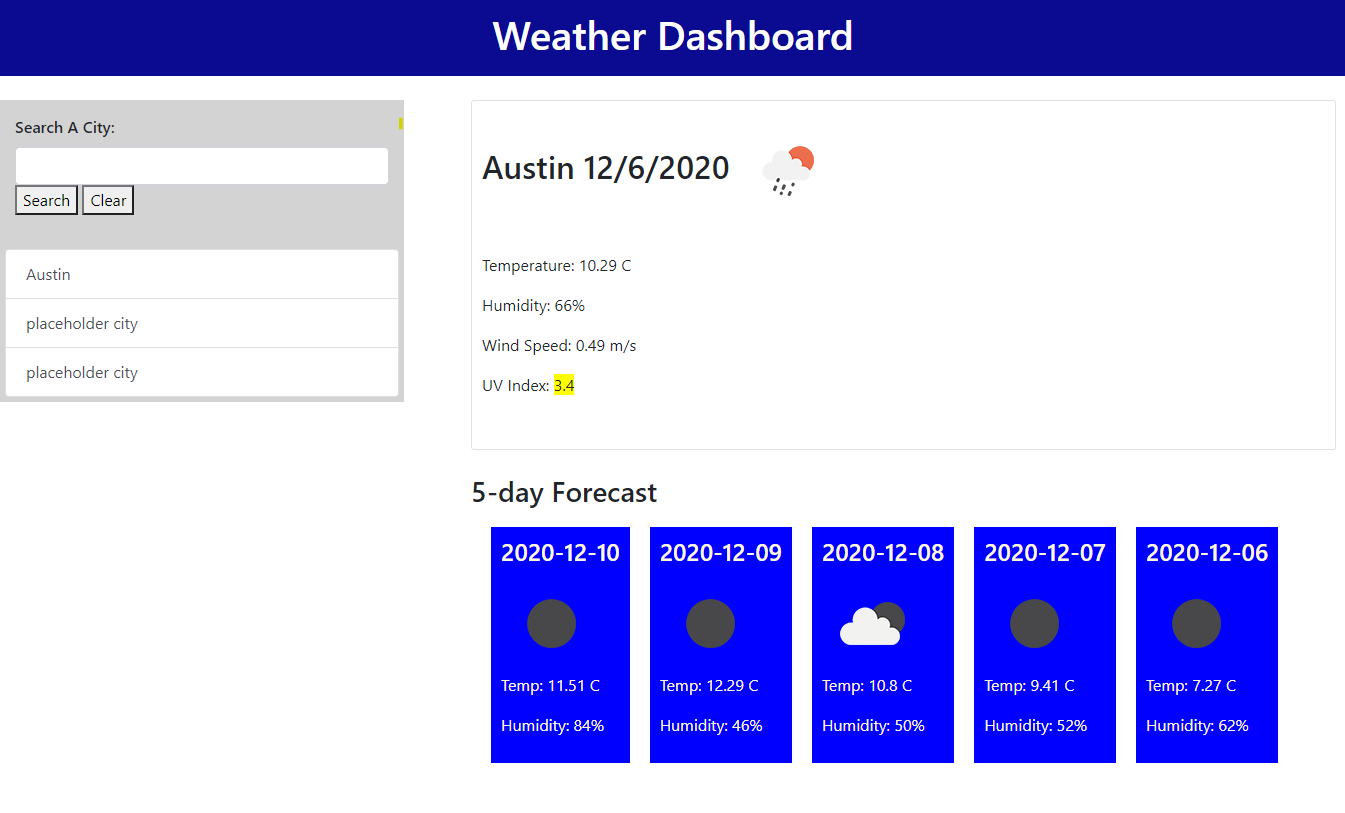
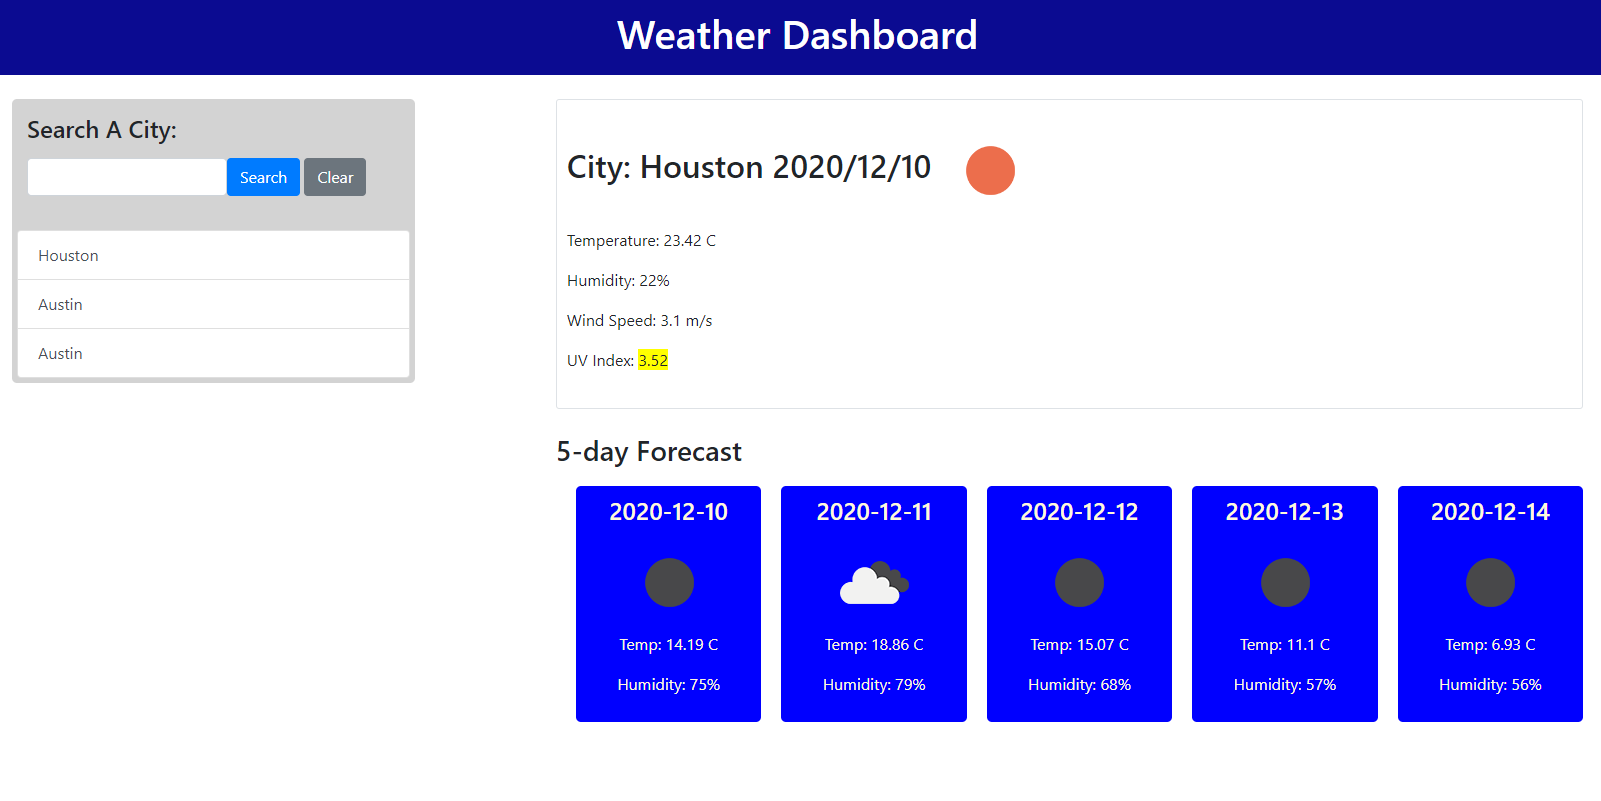
screenshot in readme, re-search previous searches added

diff --git a/logic.js b/logic.js
@@ -7,26 +7,25 @@ let cityArray = [];
 function savecitytolist(cityInput) {
     cityArray.push(cityInput);
     localStorage.setItem('cityKey', JSON.stringify(cityArray));
-    $(".city-list").prepend( $("<a>").addClass("list-group-item list-group-item-action").text(cityInput))
+    $(".city-list").prepend( $("<a>").addClass("list-group-item list-group-item-action pastSearch").text(cityInput))
 }
 
 //Ajax part
 const APIkey = "78244aeb7fca6683e6a91e3953c941ac";
-$("#submit").click(function(event){
+$("#submit").click(function makeSearch(event){
     event.preventDefault();
-    var cityInput = $("#cityInput").val();
-    if (cityInput==""){ // if input is empty, don't do anything
+    var cityInput = $("#cityInput").val().trim();
+    if (cityInput===""){ // if input is empty, don't do anything
         return
     } else {
+        console.log("------>"+cityInput);
         savecitytolist(cityInput);
-        var Lon = "";
-        var Lat = "";
         var queryURL = `https://api.openweathermap.org/data/2.5/weather?q=${cityInput}&units=metric&appid=${APIkey}`;
         $("#cityInput").val("");
         $.ajax({
             url: queryURL,
             method: "GET"
-        }).then(function(response) {
+        }).then(function currentWeatherCall(response) {
             console.log("Current Weather:");
             console.log(response);
 
@@ -36,23 +35,22 @@ $("#submit").click(function(event){
             var dayDate =  dateObject.toLocaleString("en-US", {day: "numeric"});
 
             $("#cityName").text(response.name);
-            $("#date").text(` ${monthDate}/${dayDate}/${yearDate}`);
+            $("#date").text(` ${yearDate}/${monthDate}/${dayDate}`);
             $("#weatherIcon").attr("src",`http://openweathermap.org/img/wn/${response.weather[0].icon}@2x.png`);
             $("#temp").text(response.main.temp+" C");
             $("#hum").text(response.main.humidity+"%");
             $("#windSpeed").text(response.wind.speed+" m/s");
-            Lon = response.coord.lon;
-            console.log("lon: "+Lon);
-            Lat = response.coord.lat;
-            console.log("lat: "+Lat);
+            lonOutput = response.coord.lon;
+            latOutput = response.coord.lat;
+            console.log("lat: "+latOutput+"lon: "+lonOutput);
 
             // api call for UV Index using lat and lon from previous call
-            var UVIqueryURL =`https://api.openweathermap.org/data/2.5/uvi?lat=${Lat}&lon=${Lon}&appid=${APIkey}`;
+            var UVIqueryURL =`https://api.openweathermap.org/data/2.5/uvi?lat=${latOutput}&lon=${lonOutput}&appid=${APIkey}`;
             console.log(UVIqueryURL);
             $.ajax({
                 url: UVIqueryURL,
                 method: "GET"
-            }).then(function(UVIresponse) {
+            }).then(function uviCall(UVIresponse) {
                 console.log(UVIresponse);
                 $("#UVindex").text(UVIresponse.value);
                 var color = "";
@@ -67,7 +65,7 @@ $("#submit").click(function(event){
         $.ajax({
             url: forecastURL,
             method: "GET"
-        }).then(function(response) {
+        }).then(function futureWeatherCall(response) {
             console.log("5 day fc:");
             console.log(response);
             $(".forecast-boxes").empty();
@@ -75,7 +73,7 @@ $("#submit").click(function(event){
                 var datetext = response.list[i].dt_txt // "2020-12-06 00:00:00"
                 var date = datetext.slice(0,-9) // "2020-12-06"
                 
-                $(".forecast-boxes").append($("<div>").addClass("box"+i));
+                $(".forecast-boxes").append($("<div>").addClass("col box box"+i));
                 $(".box"+i).append($("<h4>").addClass("fc-date").text(date)); // need a way to get the date from response   
                 $(".box"+i).append($("<img>").attr("src",`http://openweathermap.org/img/wn/${response.list[i].weather[0].icon}@2x.png`));
                 $(".box"+i).append($("<p>").addClass("fc-temp").text("Temp: "+response.list[i].main.temp+" C"));   
@@ -86,4 +84,10 @@ $("#submit").click(function(event){
 });
 
 
-
+// event delegation needed so that dynamcally generated items do fire off when clicked
+$(".city-list").on("click","a", function searchAgain(){
+    var searchTerm = $(this).text();
+    console.log(searchTerm);
+    $("#cityInput").val(searchTerm);
+    $("#submit").trigger( "click" );
+})

diff --git a/index.html b/index.html
@@ -1,13 +1,16 @@
 <!DOCTYPE html>
 <html lang="en">
+
 <head>
     <meta charset="UTF-8">
     <meta name="viewport" content="width=device-width, initial-scale=1.0">
     <title>Weather Dashboard</title>
 
-    <link rel="stylesheet" href="https://stackpath.bootstrapcdn.com/bootstrap/4.5.2/css/bootstrap.min.css" integrity="sha384-JcKb8q3iqJ61gNV9KGb8thSsNjpSL0n8PARn9HuZOnIxN0hoP+VmmDGMN5t9UJ0Z" crossorigin="anonymous">
+    <link rel="stylesheet" href="https://stackpath.bootstrapcdn.com/bootstrap/4.5.2/css/bootstrap.min.css"
+        integrity="sha384-JcKb8q3iqJ61gNV9KGb8thSsNjpSL0n8PARn9HuZOnIxN0hoP+VmmDGMN5t9UJ0Z" crossorigin="anonymous">
     <link rel="stylesheet" href="style.css">
 </head>
+
 <body>
     <header>
         <h1>Weather Dashboard</h1>
@@ -15,17 +18,18 @@
     <br>
     <aside>
         <form class="search-list">
-            <label for="cityInput">Search A City:</label>
-            <input type="text" class="form-control" id="cityInput">
-            
-            <button type="submit" value="Submit" id="submit">Search</button>
-            <button id="clear">Clear</button>
+            <h4><label for="cityInput">Search A City:</label></h4>
+            <div class="form-inline">
+                <input type="text" class="form-control" id="cityInput" />
+                <span>
+                    <button type="submit" value="Submit" class="btn btn-primary" id="submit">Search</button>
+                    <button class="btn btn-secondary" id="clear">Clear</button>
+                </span>
         </form>
+        </div>
         <br>
         <div class="city-list list-group">
-            <a href="#" class="list-group-item list-group-item-action">placeholder city</a>
-            <a href="#" class="list-group-item list-group-item-action">placeholder city</a>
-
+            <a class="list-group-item list-group-item-action pastSearch">Austin</a>
             <!-- create a's with href="#" class="list-group-item list-group-item-action" 
                 for cities-->
         </div>
@@ -33,10 +37,14 @@
 
     <section>
         <div class="current-info border rounded-sm">
-            <h2><span id="cityName"> </span><span id="date"> </span> <img id="weatherIcon"></h2>
-            <br>
-            <p>Temperature: <span id="temp"></span></p> 
-            <p>Humidity: <span id="hum"></span></p> 
+            <h2>City:
+                <span id="cityName"></span>
+                <span id="date"></span>
+                <img id="weatherIcon">
+            </h2>
+
+            <p>Temperature: <span id="temp"></span></p>
+            <p>Humidity: <span id="hum"></span></p>
             <p>Wind Speed: <span id="windSpeed"></span></p>
             <p>UV Index: <span id="UVindex"></span></p>
         </div>
@@ -44,12 +52,13 @@
         <div class="future-forecast">
             <h3>5-day Forecast</h3>
             <div class="row forecast-boxes">
-    
+
             </div>
-            
         </div>
     </section>
-    <script src="https://code.jquery.com/jquery-3.5.1.min.js" integrity="sha256-9/aliU8dGd2tb6OSsuzixeV4y/faTqgFtohetphbbj0=" crossorigin="anonymous"></script>
+    <script src="https://code.jquery.com/jquery-3.5.1.min.js"
+        integrity="sha256-9/aliU8dGd2tb6OSsuzixeV4y/faTqgFtohetphbbj0=" crossorigin="anonymous"></script>
     <script src="logic.js"></script>
 </body>
+
 </html>

diff --git a/style.css b/style.css
@@ -9,11 +9,13 @@ label {
     font-weight: 600;
 }
 aside {
-    width: 30%;
+    width: 25%;
     padding: 5px;
     float: left;
     background-color: lightgray;
     height: 100%;
+    border-radius: 5px;
+    margin-left: 20px;
 }
 .search-list {
     padding: 10px;
@@ -25,14 +27,16 @@ section {
     padding: 0px;
 }
 .current-info {
-    height: 350px;
-    margin-right: 10px;
+    min-height: 300px;
+    margin-right: 20px;
     padding: 20px 10px;
+    border-radius: 5px;
+
 }
 
 
 .forecast-boxes{
-    margin: 10px;
+    margin: 10px 10px;
 }
 .forecast-boxes > * {
     margin: 10px 10px;
@@ -40,6 +44,11 @@ section {
     color: cornsilk;
     padding: 10px;
     min-height: 150px;
-    min-width: 100px;
+    min-width: 180px;
+    max-width: 300px;
     height: fit-content;
 } 
+.box {
+    text-align: center;
+    border-radius: 5px;
+}

diff --git a/README.md b/README.md
@@ -6,3 +6,5 @@ When user enters a city name in search bar, the city name gets saved into local 
 
 Github Repo: https://github.com/umutamac/weather-dashboard
 Depolyed Project: https://umutamac.github.io/weather-dashboard/
+
+![Weather Dashboard](/Assets/weather_dashboard.png?raw=true "Weather Dashboard")
